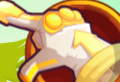
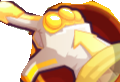
Mask scenery outside the owned Auto Clicker pool artwork

diff --git a/autoclicker_test.go b/autoclicker_test.go
@@ -22,6 +22,31 @@ func TestAutoClickerNativePool(t *testing.T) {
 			raw, rawErr := readGameText(context.Background(), s, autoClickerCountRegion(s), max(2, 4096/s.Bounds().Dx()), 7, 180, "0123456789/")
 			t.Fatalf("%s pool=%+v error=%v icon=%t %v raw=%q %v", path, pool, err, icon, iconErr, raw, rawErr)
 		}
+		// Location pixels outside the extracted hand/pool artwork must not participate in recognition.
+		reference, err := templateImage("ui/autoclicker-pool.png")
+		if err != nil {
+			t.Fatal(err)
+		}
+		changed := image.NewRGBA(s.Bounds())
+		draw.Draw(changed, changed.Bounds(), s, s.Bounds().Min, draw.Src)
+		r := controlRect(s, image.Rect(1197, 368, 1257, 409))
+		masked := 0
+		for y := r.Min.Y; y < r.Max.Y; y++ {
+			for x := r.Min.X; x < r.Max.X; x++ {
+				_, _, _, alpha := reference.At(x-r.Min.X, y-r.Min.Y).RGBA()
+				if alpha == 0 {
+					changed.Set(x, y, color.RGBA{R: 203, G: 20, B: 206, A: 255})
+					masked++
+				}
+			}
+		}
+		if masked == 0 {
+			t.Fatal("pool asset has no transparent location mask")
+		}
+		frame.image = changed
+		if got, err := readAutoClickerPool(context.Background(), frame); err != nil || got != pool {
+			t.Fatalf("changed location rejected: %+v %v", got, err)
+		}
 		// The count alone cannot identify the owned pool when its icon is covered.
 		covered := image.NewRGBA(s.Bounds())
 		draw.Draw(covered, covered.Bounds(), s, s.Bounds().Min, draw.Src)
